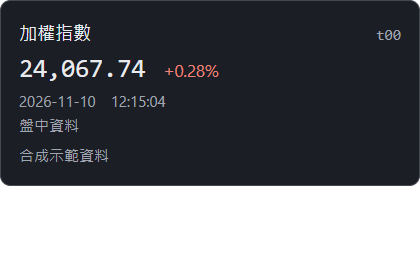
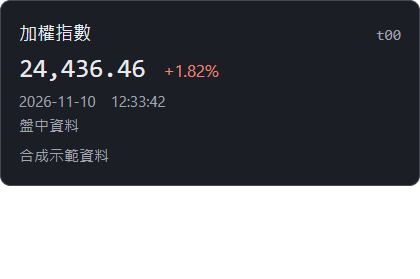
Restart and quit buttons in settings
The only way to stop the program was the tray menu, which Windows 11 often hides. Settings now has
restart and quit buttons; restart starts a fresh copy two seconds after this one has gone, because
the program is single-instance. Checked on a real window: the old copy goes, a new one comes up
with a new connection token, and quit stops it.

diff --git a/src/main.ts b/src/main.ts
@@ -494,7 +494,7 @@ function render() {
       )
       .join(
         "",
-      )}</div><div class="setting-row"><label>顯示內容<select id="display-mode"><option value="numbers" ${state.settings.rowDisplay === "numbers" || !state.settings.rowDisplay ? "selected" : ""}>純數字</option><option value="trend" ${state.settings.rowDisplay === "trend" ? "selected" : ""}>單行走勢</option><option value="minimal" ${state.settings.rowDisplay === "minimal" ? "selected" : ""}>極簡：方向與名稱</option></select></label><label class="setting-check"><input id="show-codes" type="checkbox" ${state.settings.showCodes ? "checked" : ""}> 顯示代號</label></div><div class="note density-note">極簡方向為當日漲跌；— 平盤，○ 資料未確認。名稱尚未取得時會使用代號。</div><div class="setting-row"><label class="setting-check"><input id="always-on-top" type="checkbox" ${state.settings.alwaysOnTop !== false ? "checked" : ""}> 視窗保持置頂</label></div><div class="setting-row"><div><strong>監看狀態</strong><small>隱藏視窗仍會監看，暫停則停止判定。</small></div><button id="pause" class="secondary">${state.settings.paused ? "繼續監看" : "暫停監看"}</button></div><label class="setting-row">更新間隔（秒）<input id="refresh" type="number" min="5" max="300" value="${state.settings.refreshSeconds}"></label><button id="save-refresh" class="secondary">儲存更新間隔</button>${desktop ? `<div class="setting-row"><label class="setting-check"><input id="update-check" type="checkbox" ${state.settings.updateCheck !== false ? "checked" : ""}> 啟動時檢查新版本</label></div><div class="setting-row"><div><strong>版本 ${esc(appVersion)}</strong><small id="update-status">${esc(updateMessage || "只會連到 GitHub 詢問有沒有新版本")}</small></div><span class="update-actions"><button id="check-update" class="secondary" ${updateBusy ? "disabled" : ""}>檢查更新</button>${newer ? (newer.update ? `<button id="install-update" class="primary">更新並重新啟動</button>` : `<button id="open-release" class="secondary">前往下載頁</button>`) : ""}</span></div>` : ""}<div class="note">所有外觀預設無聲。灰階通知跟隨外觀。<br>${privacyShortcutLabel} 隱藏全部視窗，從系統匣恢復。<br>${state.privacyShortcutError ? esc(state.privacyShortcutError) + "<br>" : ""}資料：TWSE MIS；來源時間與取得時間分開顯示。<br>更新檢查只向 GitHub 詢問版本，不傳送任何使用資料；要更新時由你按下按鈕才會下載安裝。<br>首次觀測只建立基準；過期或缺少成交價時不觸發。<br>${desktop ? "agent：以程式加上 --mcp 啟動連接，詳見 README。" : "瀏覽器僅顯示合成預覽；桌面版才會實際監看與提供 MCP。"}</div></div>`;
+      )}</div><div class="setting-row"><label>顯示內容<select id="display-mode"><option value="numbers" ${state.settings.rowDisplay === "numbers" || !state.settings.rowDisplay ? "selected" : ""}>純數字</option><option value="trend" ${state.settings.rowDisplay === "trend" ? "selected" : ""}>單行走勢</option><option value="minimal" ${state.settings.rowDisplay === "minimal" ? "selected" : ""}>極簡：方向與名稱</option></select></label><label class="setting-check"><input id="show-codes" type="checkbox" ${state.settings.showCodes ? "checked" : ""}> 顯示代號</label></div><div class="note density-note">極簡方向為當日漲跌；— 平盤，○ 資料未確認。名稱尚未取得時會使用代號。</div><div class="setting-row"><label class="setting-check"><input id="always-on-top" type="checkbox" ${state.settings.alwaysOnTop !== false ? "checked" : ""}> 視窗保持置頂</label></div><div class="setting-row"><div><strong>監看狀態</strong><small>隱藏視窗仍會監看，暫停則停止判定。</small></div><button id="pause" class="secondary">${state.settings.paused ? "繼續監看" : "暫停監看"}</button></div>${desktop ? `<div class="setting-row"><div><strong>程式</strong><small>找不到系統匣時，從這裡重新啟動或結束。結束後就不再監看。</small></div><span class="update-actions"><button id="restart-app" class="secondary">重新啟動</button><button id="quit-app" class="secondary">結束程式</button></span></div>` : ""}<label class="setting-row">更新間隔（秒）<input id="refresh" type="number" min="5" max="300" value="${state.settings.refreshSeconds}"></label><button id="save-refresh" class="secondary">儲存更新間隔</button>${desktop ? `<div class="setting-row"><label class="setting-check"><input id="update-check" type="checkbox" ${state.settings.updateCheck !== false ? "checked" : ""}> 啟動時檢查新版本</label></div><div class="setting-row"><div><strong>版本 ${esc(appVersion)}</strong><small id="update-status">${esc(updateMessage || "只會連到 GitHub 詢問有沒有新版本")}</small></div><span class="update-actions"><button id="check-update" class="secondary" ${updateBusy ? "disabled" : ""}>檢查更新</button>${newer ? (newer.update ? `<button id="install-update" class="primary">更新並重新啟動</button>` : `<button id="open-release" class="secondary">前往下載頁</button>`) : ""}</span></div>` : ""}<div class="note">所有外觀預設無聲。灰階通知跟隨外觀。<br>${privacyShortcutLabel} 隱藏全部視窗，從系統匣恢復。<br>${state.privacyShortcutError ? esc(state.privacyShortcutError) + "<br>" : ""}資料：TWSE MIS；來源時間與取得時間分開顯示。<br>更新檢查只向 GitHub 詢問版本，不傳送任何使用資料；要更新時由你按下按鈕才會下載安裝。<br>首次觀測只建立基準；過期或缺少成交價時不觸發。<br>${desktop ? "agent：以程式加上 --mcp 啟動連接，詳見 README。" : "瀏覽器僅顯示合成預覽；桌面版才會實際監看與提供 MCP。"}</div></div>`;
   if (tab === "rules")
     content.innerHTML = `<div class="pane"><h1>只在你在意的時候</h1><p class="intro">首次觀測建立基準，之後跨過門檻才提醒。</p><form id="rule-form"><div class="form-grid"><label>股票代號<input name="symbol" required placeholder="2330" value="${esc(editing?.symbol ?? state.watchlist.find((c) => c !== "t00") ?? "2330")}"></label><label>觀測項目<select name="metric"><option value="price">成交價（元）</option><option value="changePercent" ${editing?.metric === "changePercent" ? "selected" : ""}>漲跌幅（成交價，%）</option><option value="mid" ${editing?.metric === "mid" ? "selected" : ""}>買賣中間價（委託價，元）</option><option value="midChangePercent" ${editing?.metric === "midChangePercent" ? "selected" : ""}>漲跌幅（買賣中間價，%）</option></select></label><label>方向<select name="direction"><option value="above">由下往上跨過</option><option value="below" ${editing?.direction === "below" ? "selected" : ""}>由上往下跨過</option></select></label><label>門檻<input name="threshold" type="number" step="any" required placeholder="例如 1000" value="${editing?.threshold ?? ""}"></label><label>通知<select name="channel">${[
       ["strip", "細條"],
@@ -609,6 +609,12 @@ function bind() {
         updateCheck: (e.target as HTMLInputElement).checked,
       }),
   );
+  document.querySelector("#restart-app")?.addEventListener("click", () => {
+    void invoke("restart_app").catch(showError);
+  });
+  document.querySelector("#quit-app")?.addEventListener("click", () => {
+    void invoke("quit_app").catch(showError);
+  });
   document
     .querySelector("#check-update")
     ?.addEventListener("click", () => void askNewer(true));

diff --git a/src-tauri/src/lib.rs b/src-tauri/src/lib.rs
@@ -71,6 +71,48 @@ fn capture_raw(text: &str) {
 pub fn bridge() {
     mcp::bridge(&data_dir());
 }
+/// Quits the program (the same as the tray menu's quit), so it can be stopped from inside the app.
+#[tauri::command]
+fn quit_app(app: tauri::AppHandle) {
+    app.exit(0);
+}
+/// Starts the program again with the same arguments and environment after this copy has gone (a
+/// second copy cannot start while this one runs: the program is single-instance), then quits.
+#[tauri::command]
+fn restart_app(app: tauri::AppHandle) -> Result<(), String> {
+    let exe = std::env::current_exe().map_err(|e| e.to_string())?;
+    let args: Vec<String> = std::env::args().skip(1).collect();
+    #[cfg(windows)]
+    {
+        use std::os::windows::process::CommandExt;
+        let quote = |s: &str| format!("'{}'", s.replace('\'', "''"));
+        let mut script = format!(
+            "Start-Sleep -Seconds 2; Start-Process -FilePath {}",
+            quote(&exe.to_string_lossy())
+        );
+        if !args.is_empty() {
+            let list: Vec<String> = args.iter().map(|a| quote(a)).collect();
+            script.push_str(&format!(" -ArgumentList {}", list.join(",")));
+        }
+        std::process::Command::new("powershell")
+            .args(["-NoProfile", "-WindowStyle", "Hidden", "-Command", &script])
+            .creation_flags(0x0800_0000)
+            .spawn()
+            .map_err(|e| e.to_string())?;
+    }
+    #[cfg(not(windows))]
+    {
+        std::process::Command::new("sh")
+            .arg("-c")
+            .arg("sleep 2; exec \"$0\" \"$@\"")
+            .arg(&exe)
+            .args(&args)
+            .spawn()
+            .map_err(|e| e.to_string())?;
+    }
+    app.exit(0);
+    Ok(())
+}
 /// The one way back from every kind of hiding (the hide button, the close box, minimizing, the
 /// privacy shortcut): the tray menu, a second launch and the shortcut all come here.
 fn show_main_window(app: &tauri::AppHandle) {
@@ -382,6 +424,8 @@ pub fn run() {
         .invoke_handler(tauri::generate_handler![
             install_kind,
             privacy_toggle,
+            quit_app,
+            restart_app,
             core_request,
             privacy_hide,
             search_stocks,

diff --git a/docs/USAGE.zh-TW.md b/docs/USAGE.zh-TW.md
@@ -22,6 +22,7 @@
 - terminal：依平台使用 Windows Terminal／PowerShell 或 Mac 終端機／zsh 外觀，隱藏 small 導覽。從視窗內選單或 Windows `Ctrl+,`／Mac `⌘,` 開啟設定；可輸入 `help` 查看模式內指令。
 - txt：Windows 使用記事本式分頁、選單與狀態列；Mac 使用 TextEdit 純文字文件窗，沒有 Windows 分頁與 CRLF 狀態列。兩者都可選取／複製報表與縮放。Windows 可切換狀態列、從齒輪或檔案選單回設定；Mac 從右上「⋯」開設定或操作。
 - 標題列「−」旁邊有釘選按鈕（圖釘亮金色＝置頂，點一下切換，與設定頁的勾選是同一個設定）；極簡模式的細條上也有。「−」把視窗縮到工作列，監看繼續，點工作列上的按鈕就回來；旁邊的「眼睛劃線」按鈕是完全隱藏（等同按 Ctrl+Alt+S：全部視窗與通知都收起，沒有工作列按鈕），按快捷鍵叫回。關閉視窗（終端機、記事本外觀的 ×）則隱藏到系統匣，Windows 11 常把新的系統匣圖示收進時鐘旁的「^」隱藏區，找不到時用下一條的快捷鍵最快。
+- 想重新啟動或結束程式：「外觀與設定 → 程式」有「重新啟動」與「結束程式」按鈕，不必找系統匣。
 - 叫回的方式全部共用：Windows `Ctrl+Alt+S`／Mac `⌘⌥S` 是切換，視窗可見時隱藏全部、隱藏或縮到工作列時叫回；系統匣選單的「顯示 SmallStocks TW」與再開一次程式也是同一個叫回。
 - Windows `Ctrl+Alt+S`／Mac `⌘⌥S` 隱藏全部視窗，並抑制後續通知；事件繼續記錄。再按一次快捷鍵、從系統匣顯示或再開一次程式後恢復通知。快捷鍵若被其他程式占用可能無法註冊，設定會顯示原因。
 - 外觀設定中的「暫停監看」才會停止抓取與事件判定。

diff --git a/CHANGELOG.md b/CHANGELOG.md
@@ -2,6 +2,8 @@
 
 ## 0.1.11 — 2026-11-08
 
+- 「外觀與設定」新增「重新啟動」與「結束程式」按鈕：找不到系統匣時也能從程式內重啟或結束（原本只有系統匣選單能結束）。
+
 - 切到行情、提醒、紀錄、設定分頁時，視窗寬度不再跳到固定 500，而是維持目前寬度、只往下展開（約 420 高，內容捲動）；回自選時縮回。你拉過的寬度會保留，預設寬度只在更換外觀時套用；展開後若超出螢幕下緣會自動上移。
 
 - 新增「完全隱藏」按鈕（眼睛劃線，在釘選與「−」旁，極簡細條也有）：等同隱私快捷鍵，隱藏全部視窗並抑制通知，監看繼續；叫回用快捷鍵（切換）、系統匣或再開程式。
